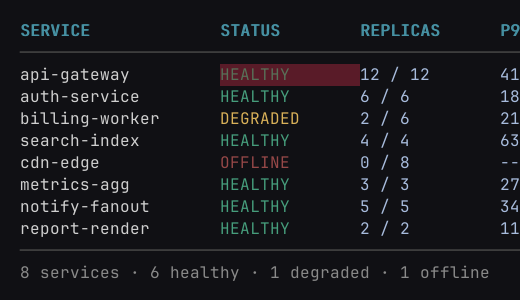
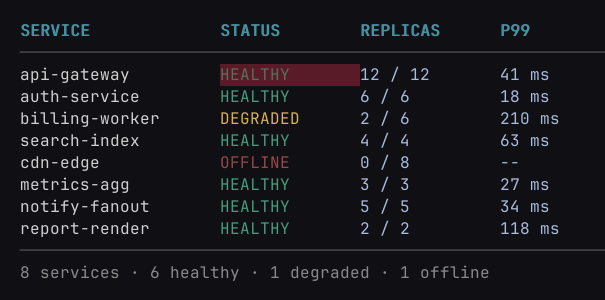
fix(085): remaining shux-tui-qa findings — suppressed verdict, cut asset, argv match
P2 — a report-write failure suppressed the run's verdict. `emit()` wrote the report
before rendering the summary and returned early on error, so a completed run printed
an errno and NO verdict at all, while the message asserted "the scenario itself ran".
The summary is now always emitted (on stderr when the report stream is in play), so
the claim and the output agree. Exit stays 4.

P2 — the committed mobile asset was cropped mid-column: the header read `P9` and the
latencies were sliced, while the figcaption calls it "real gate output". I had
over-corrected an earlier clip and never re-read the right edge. Re-cropped to a clean
column boundary; SERVICE / STATUS / REPLICAS / P99 and the summary line are all whole.

P3 — `daemon stop`'s identity check was an argv SUBSTRING match, so a bystander whose
command line merely contained both words was accepted and signalled. Reproduced with
argv `watch-for shux __daemon 300`: previously accepted, now rejected and the process
survives. Tightened to exact positions — argv[0] basename `shux` AND argv[1]
`__daemon` — and pinned with a crafted-argv child in the test.

Mobile overflow re-verified at 320/360/375/390/414/768/1024/1440: zero everywhere.
Real WebKit could only be exercised at 402 CSS px (every simulator on this machine is
>= 390), but the fix is a CSS `display:none` under a media query, which is not
engine-specific.

Claude-Session: https://claude.ai/code/session_01A78MFTF16tFPzosSixAb3L

diff --git a/pages/index.html b/pages/index.html
@@ -1068,7 +1068,7 @@ command = ["lazygit"]
 <span style="color:var(--code-comment)"># → BASELINE-APPROVAL.md: who, when, why</span></code></pre>
       <figure class="snap-out" id="gate-proof">
         <picture>
-          <source media="(max-width: 760px)" srcset="/screenshots/gate-heat-m.png" width="520" height="300">
+          <source media="(max-width: 760px)" srcset="/screenshots/gate-heat-m.png" width="605" height="300">
           <img src="/screenshots/gate-heat-2x.png" alt="heat map of a caught terminal regression: a deploy board where the api-gateway row's HEALTHY status is marked in red because its colour changed from bright green to green — the surrounding HEALTHY entries, whose text is identical, are untouched" width="740" height="300" loading="lazy" decoding="async" style="aspect-ratio:auto">
         </picture>
         <figcaption><span class="dot mossy"></span> the cells that changed colour — real gate output, from a diff no text comparison can see.</figcaption>

diff --git a/crates/shux/src/main.rs b/crates/shux/src/main.rs
@@ -1567,8 +1567,17 @@ fn is_live_shux_daemon(pid: u32) -> bool {
         // Without a way to confirm identity, refuse to claim it is ours.
         return false;
     };
+    // Exact argv positions, not a substring match (085 QA P3): a bystander whose command
+    // line merely CONTAINS both words — say `watch-for shux __daemon` — would otherwise be
+    // accepted as the daemon and signalled. A shux daemon is `<path>/shux __daemon`.
     let args = String::from_utf8_lossy(&out.stdout);
-    args.contains("shux") && args.contains("__daemon")
+    let mut argv = args.split_whitespace();
+    let exe_is_shux = argv
+        .next()
+        .and_then(|p| p.rsplit('/').next())
+        .is_some_and(|base| base == "shux");
+    let first_arg_is_daemon = argv.next() == Some("__daemon");
+    exe_is_shux && first_arg_is_daemon
 }
 
 /// `shux daemon stop|status` — the missing half of the daemon lifecycle (085 F5).
@@ -7730,6 +7739,21 @@ mod tests {
         );
         // pid 1 is init; signalling it would be catastrophic and it is never our daemon.
         assert!(!super::is_live_shux_daemon(1));
+
+        // 085 QA P3: a bystander whose command line merely CONTAINS both words must be
+        // rejected. A substring check accepted this and killed it.
+        let mut child = std::process::Command::new("/bin/sh")
+            .args(["-c", r#"exec -a "watch-for shux __daemon" /bin/sleep 5"#])
+            .spawn()
+            .expect("spawn crafted-argv bystander");
+        std::thread::sleep(std::time::Duration::from_millis(400));
+        let verdict = super::is_live_shux_daemon(child.id());
+        let _ = child.kill();
+        let _ = child.wait();
+        assert!(
+            !verdict,
+            "a process whose argv merely contains `shux` and `__daemon` is not the daemon"
+        );
     }
 
     use shux_core::config::{Config, ConfigHandle, SegmentDef, StatusBarConfig};

diff --git a/crates/shux/src/gate/driver.rs b/crates/shux/src/gate/driver.rs
@@ -194,22 +194,33 @@ fn emit(opts: &GateRunOptions, reports: &[ScenarioReport]) -> std::io::Result<()
     let stdout_is_json =
         matches!(opts.format, OutputFormat::Json) || opts.report.as_deref() == Some("-");
     let json = serde_json::to_string_pretty(reports).unwrap_or_else(|_| "[]".to_string());
-    match opts.report.as_deref() {
-        Some("-") => println!("{json}"),
-        Some(path) => std::fs::write(path, format!("{json}\n"))?,
+    let write_err = match opts.report.as_deref() {
+        Some("-") => {
+            println!("{json}");
+            None
+        }
+        Some(path) => std::fs::write(path, format!("{json}\n")).err(),
         None => {
             if stdout_is_json {
                 println!("{json}");
             }
+            None
         }
-    }
+    };
+    // The summary is emitted even when the report file could not be written (085 QA P2):
+    // returning early left a user with an errno and NO verdict at all, on a run that had
+    // actually completed and produced one. On that path it goes to stderr, since stdout
+    // may still be a JSON stream a consumer is reading.
     let table = summary::render(reports);
-    if stdout_is_json {
+    if stdout_is_json || write_err.is_some() {
         eprint!("{table}");
     } else {
         print!("{table}");
     }
-    Ok(())
+    match write_err {
+        Some(e) => Err(e),
+        None => Ok(()),
+    }
 }
 
 /// Run the gate on one scenario and return the frozen exit code (task §4). This is the